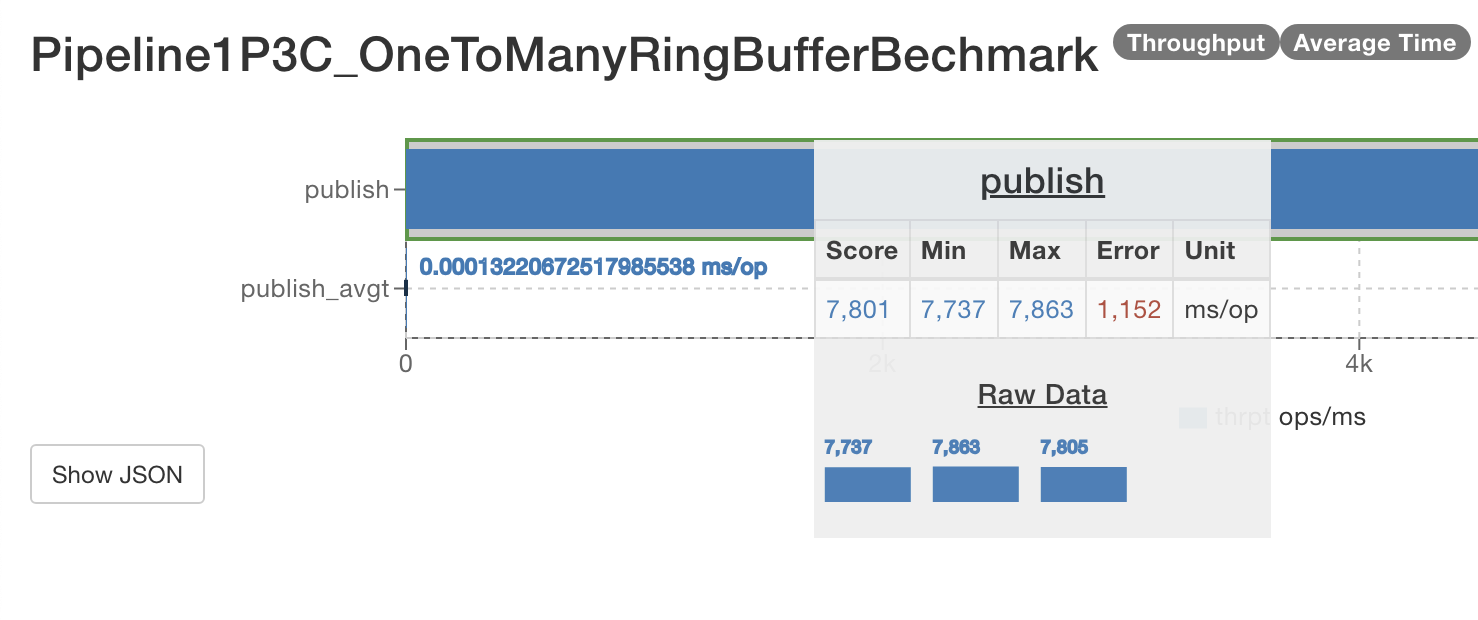
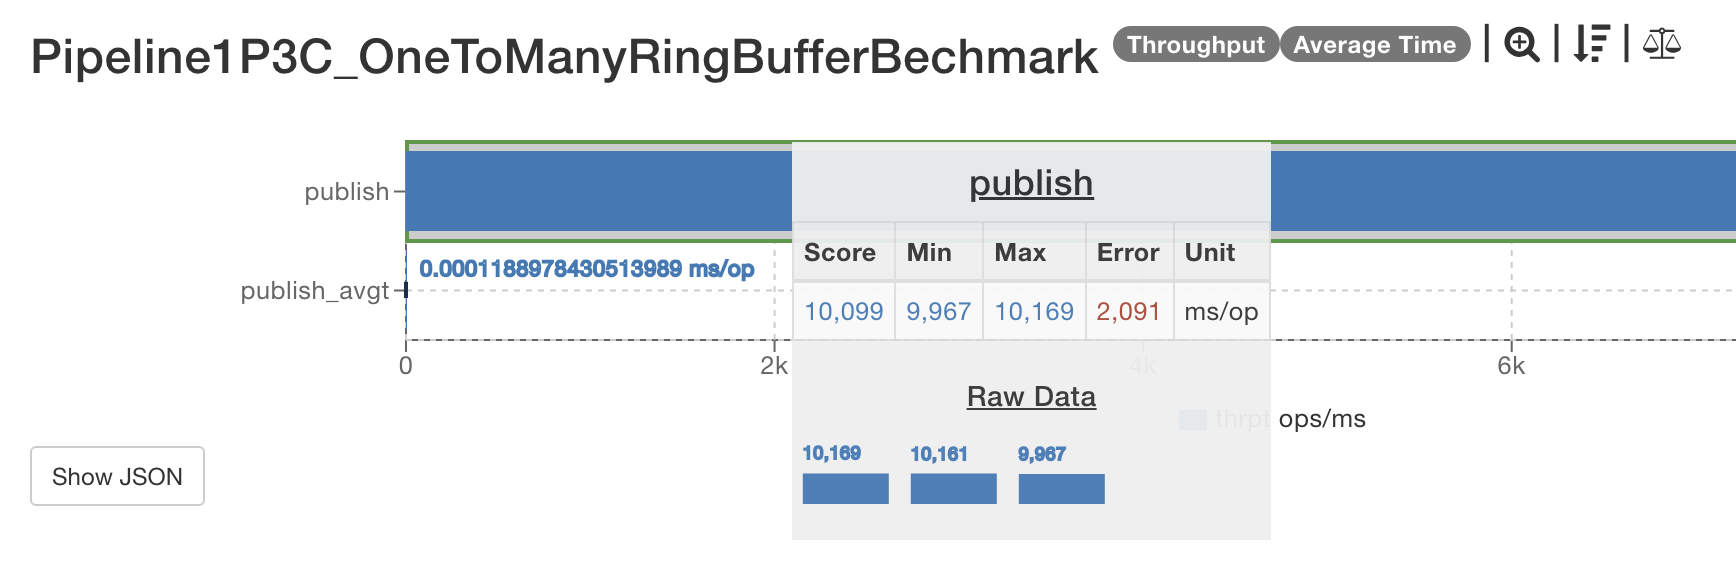
update: benchmark

diff --git a/lib-benchmark/src/main/java/gc/garcol/libbenchmark/Pipeline1P3C_OneToManyRingBufferBechmark.java b/lib-benchmark/src/main/java/gc/garcol/libbenchmark/Pipeline1P3C_OneToManyRingBufferBechmark.java
@@ -19,8 +19,8 @@ import java.util.concurrent.TimeUnit;
 public class Pipeline1P3C_OneToManyRingBufferBechmark
 {
     @Benchmark
-    @Timeout(time = 15)
-    @Warmup(iterations = 1, time = 1)
+    @Timeout(time = 20)
+    @Warmup(iterations = 3, time = 20)
     public void publish(Pipeline1P3C_OneToManyRingBufferPlan ringBufferPlan, Blackhole blackhole) throws IOException
     {
         ringBufferPlan.writeBuffer.clear();

diff --git a/lib-benchmark/src/main/java/gc/garcol/libbenchmark/Unicast1P1C_OneToManyRingBufferBechmark.java b/lib-benchmark/src/main/java/gc/garcol/libbenchmark/Unicast1P1C_OneToManyRingBufferBechmark.java
@@ -19,8 +19,8 @@ import java.util.concurrent.TimeUnit;
 public class Unicast1P1C_OneToManyRingBufferBechmark
 {
     @Benchmark
-    @Timeout(time = 15)
-    @Warmup(iterations = 1, time = 1)
+    @Timeout(time = 20)
+    @Warmup(iterations = 2, time = 20)
     public void publish(Unicast1P1C_OneToManyRingBufferPlan ringBufferPlan, Blackhole blackhole) throws IOException
     {
         ringBufferPlan.writeBuffer.clear();

diff --git a/README.md b/README.md
@@ -21,10 +21,10 @@ Developed a high-performance ring buffer leveraging `lock-free` and low-level `u
 
 ## Benchmark
 
-| Benchmark                                                                                       | Results                                                      |
-|-------------------------------------------------------------------------------------------------|--------------------------------------------------------------|
-| `Unicast`-`1P – 1C` <br>throughput: 11,200,000 messages/s. <br> Avg-latency: 89.4 ns            | <img src="readme/benchmark_unicast_1p1c.png" width="100%"/>  |
-| `Three Step Pipeline`-`1P – 3C` <br>throughput: 7,800,000 messages/s. <br>Avg-latency: 132.2 ns | <img src="readme/benchmark_pipeline_1p3c.png" width="100%"/> |
+| Benchmark                                                                                      | Results                                                      |
+|------------------------------------------------------------------------------------------------|--------------------------------------------------------------|
+| `Unicast`-`1P – 1C` <br>throughput: 11,200,000 messages/s. <br> Avg-latency: 89.4 ns           | <img src="readme/benchmark_unicast_1p1c.png" width="100%"/>  |
+| `Three Step Pipeline`-`1P – 3C` <br>throughput: 10,000,000 messages/s. <br>Avg-latency: 119 ns | <img src="readme/benchmark_pipeline_1p3c.png" width="100%"/> |
 ## Features
 
 - [X] `OneToManyRingBuffer` (also configurable for `OneToOneRingBuffer` usage)
